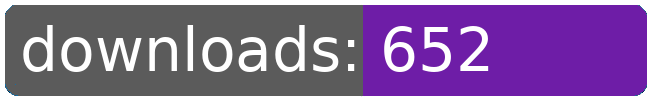
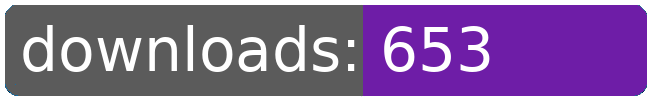
dl log written

Changed region(s): [[0.7077, 0.42, 0.7692, 0.72], [0.7077, 0.27, 0.7692, 0.39]]

diff --git a/README.md b/README.md
@@ -21,8 +21,8 @@
 		<td>561</td>
 		<td>593</td>
 		<td>622</td>
-		<td>652</td>
-		<td>+ 30</td>
+		<td>653</td>
+		<td>+ 31</td>
 	</tr>
 	<tr>
 		<td>aberrant.kahet.outfitter</td>
@@ -208,8 +208,8 @@
 		<td></td>
 		<td></td>
 		<td></td>
-		<td>8065</td>
-		<td>430</td>
+		<td>8066</td>
+		<td>431</td>
 	</tr>
 </table>
 </sub></sup>
@@ -289,8 +289,8 @@
 		<td>561</td>
 		<td>593</td>
 		<td>622</td>
-		<td>652</td>
-		<td>+ 30</td>
+		<td>653</td>
+		<td>+ 31</td>
 	</tr>
 	<tr>
 		<td>unlimited.dfc</td>
@@ -421,8 +421,8 @@
 		<td></td>
 		<td></td>
 		<td></td>
-		<td>8065</td>
-		<td>430</td>
+		<td>8066</td>
+		<td>431</td>
 	</tr>
 </table>
 </sub></sup>
